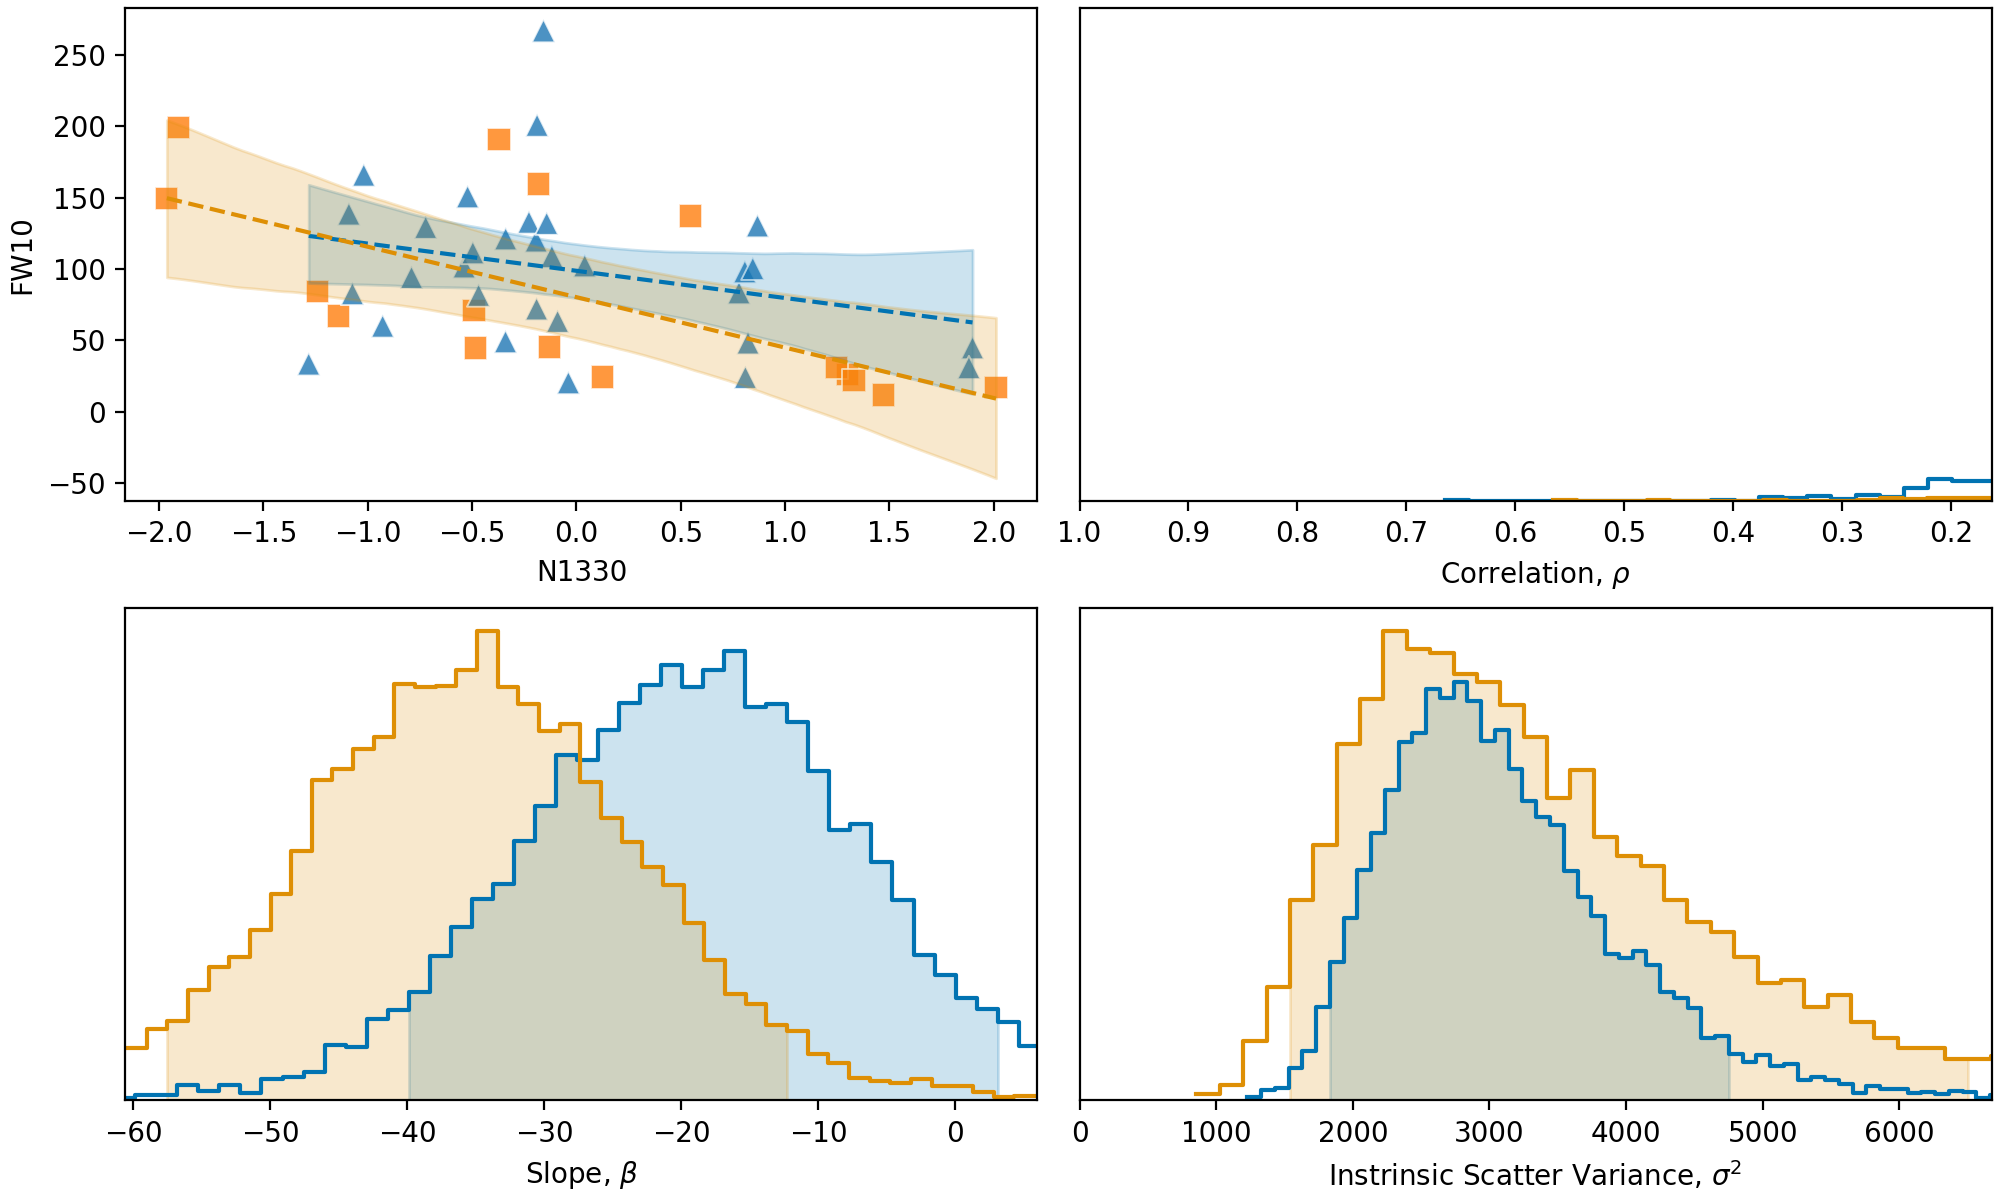
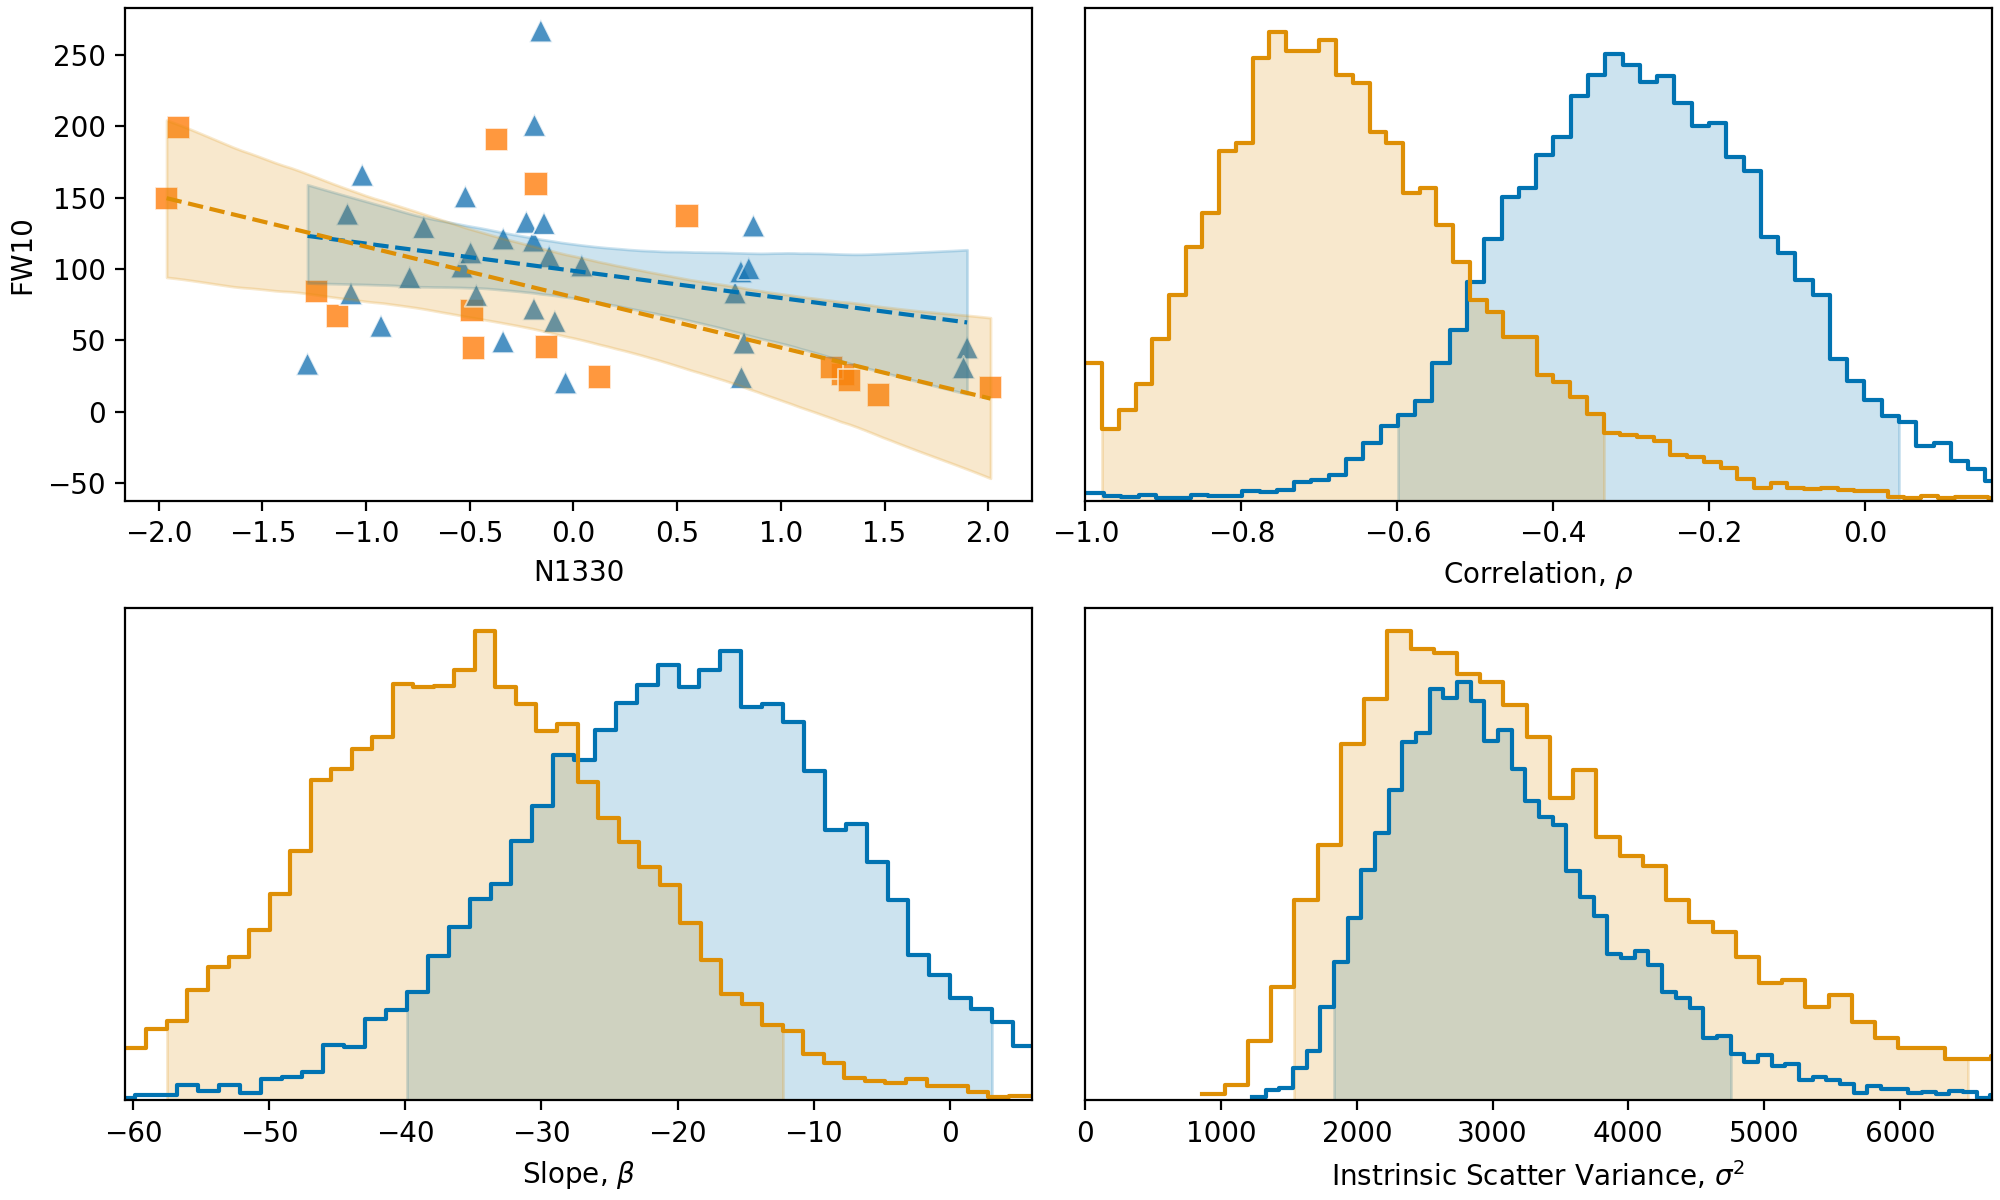
:bug: fixed N1330 summarizing plots!

diff --git a/summarize_shapes.py b/summarize_shapes.py
@@ -81,7 +81,8 @@ def main(force=False):
     dataset = pd.read_csv('Data/shapes dataset v2.csv', sep=',', skipinitialspace=True, na_values=['#NAME?'])
     dataset = remove_disks(dataset, outliers + low_mass)
 
-    xvars = ['MSTAR', 'LSTAR', 'LOGLACC', 'INCL', 'N1330', 'TEFF', 'FW10']
+    xvars = ['N1330']
+    # xvars = ['MSTAR', 'LSTAR', 'LOGLACC', 'INCL', 'N1330', 'TEFF', 'FW10']
     yvars = ['V1_FLUX', 'V1H_FLUX', 'V2_FLUX', 'I13_FLUX', 'FW10']
 
     delta_map = flux_prep(dataset, y_vars=yvars, log_vars=log_vars, labels_map=labels_map, correction_col='W2_JY')
@@ -211,8 +212,8 @@ def main(force=False):
             sigma_bounds = min(*bounds['sigma']), max(bounds['sigma'])
             corr_bounds = min(*bounds['corr']), max(bounds['corr'])
 
-            ax2.set_xlim(corr_bounds[0] if corr_bounds[0] > -0.98 else 1,
-                         corr_bounds[1] if corr_bounds[1] < 0.98 else 1)
+            ax2.set_xlim(corr_bounds[0] if corr_bounds[0] > -0.96 else -1,
+                         corr_bounds[1] if corr_bounds[1] < 0.96 else 1)
             ax2.set(yticklabels=[], yticks=[])
 
             ax2.set_xlabel(r'Correlation, $\rho$')
@@ -234,4 +235,4 @@ def main(force=False):
 
 
 if __name__ == '__main__':
-    main(False)
+    main(True)
